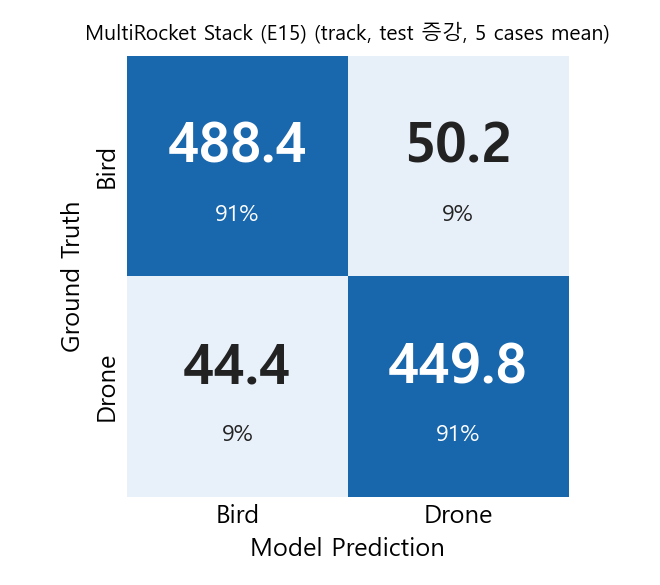
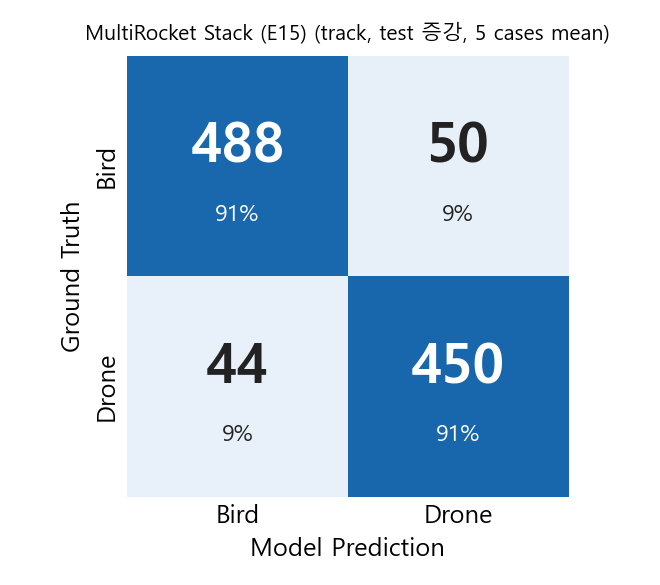
docs(c): case 평균 혼동행렬을 정수 반올림으로 다시 그림
c_part_final_report 에 --round 를 추가해 --mean-cm 의 평균값을 정수로 반올림한다.
MultiRocket Stack 증강 test: 488 / 50 / 44 / 450 (합계 1,032, 비율은 같음).

diff --git a/research/c_part_final_report.py b/research/c_part_final_report.py
@@ -43,6 +43,7 @@ def main() -> None:
     parser.add_argument("--image", type=Path, help="혼동행렬 이미지 경로 (기본: 결과 폴더 안)")
     parser.add_argument("--mean-cm", action="store_true",
                         help="이미지를 5개 case 합산 대신 case 평균 혼동행렬로 그린다 (비율은 같음)")
+    parser.add_argument("--round", action="store_true", help="--mean-cm 의 평균값을 정수로 반올림해 그린다")
     args = parser.parse_args()
     import matplotlib.pyplot as plt
     plt.rcParams["font.family"] = ["Malgun Gothic", "AppleGothic", "NanumGothic", "DejaVu Sans"]
@@ -78,7 +79,9 @@ def main() -> None:
     image = args.image or args.results / f"confusion_S_{main_name}_track.png"
     if args.mean_cm:
         cm = cm_sum(track) / len(track)
-        print(f"case 평균 혼동행렬: {cm.round(1).tolist()} (합계 {cm.sum():.1f})")
+        if args.round:
+            cm = cm.round().astype(int)
+        print(f"case 평균 혼동행렬: {cm.round(1).tolist()} (합계 {cm.sum():.1f}{', 정수 반올림' if args.round else ''})")
         title = f"{args.name or args.results.name} (track, {main_name}, {len(track)} cases mean)"
     else:
         cm, title = cm_sum(track), f"{args.name or args.results.name} (track, {main_name}, {len(track)} cases pooled)"
